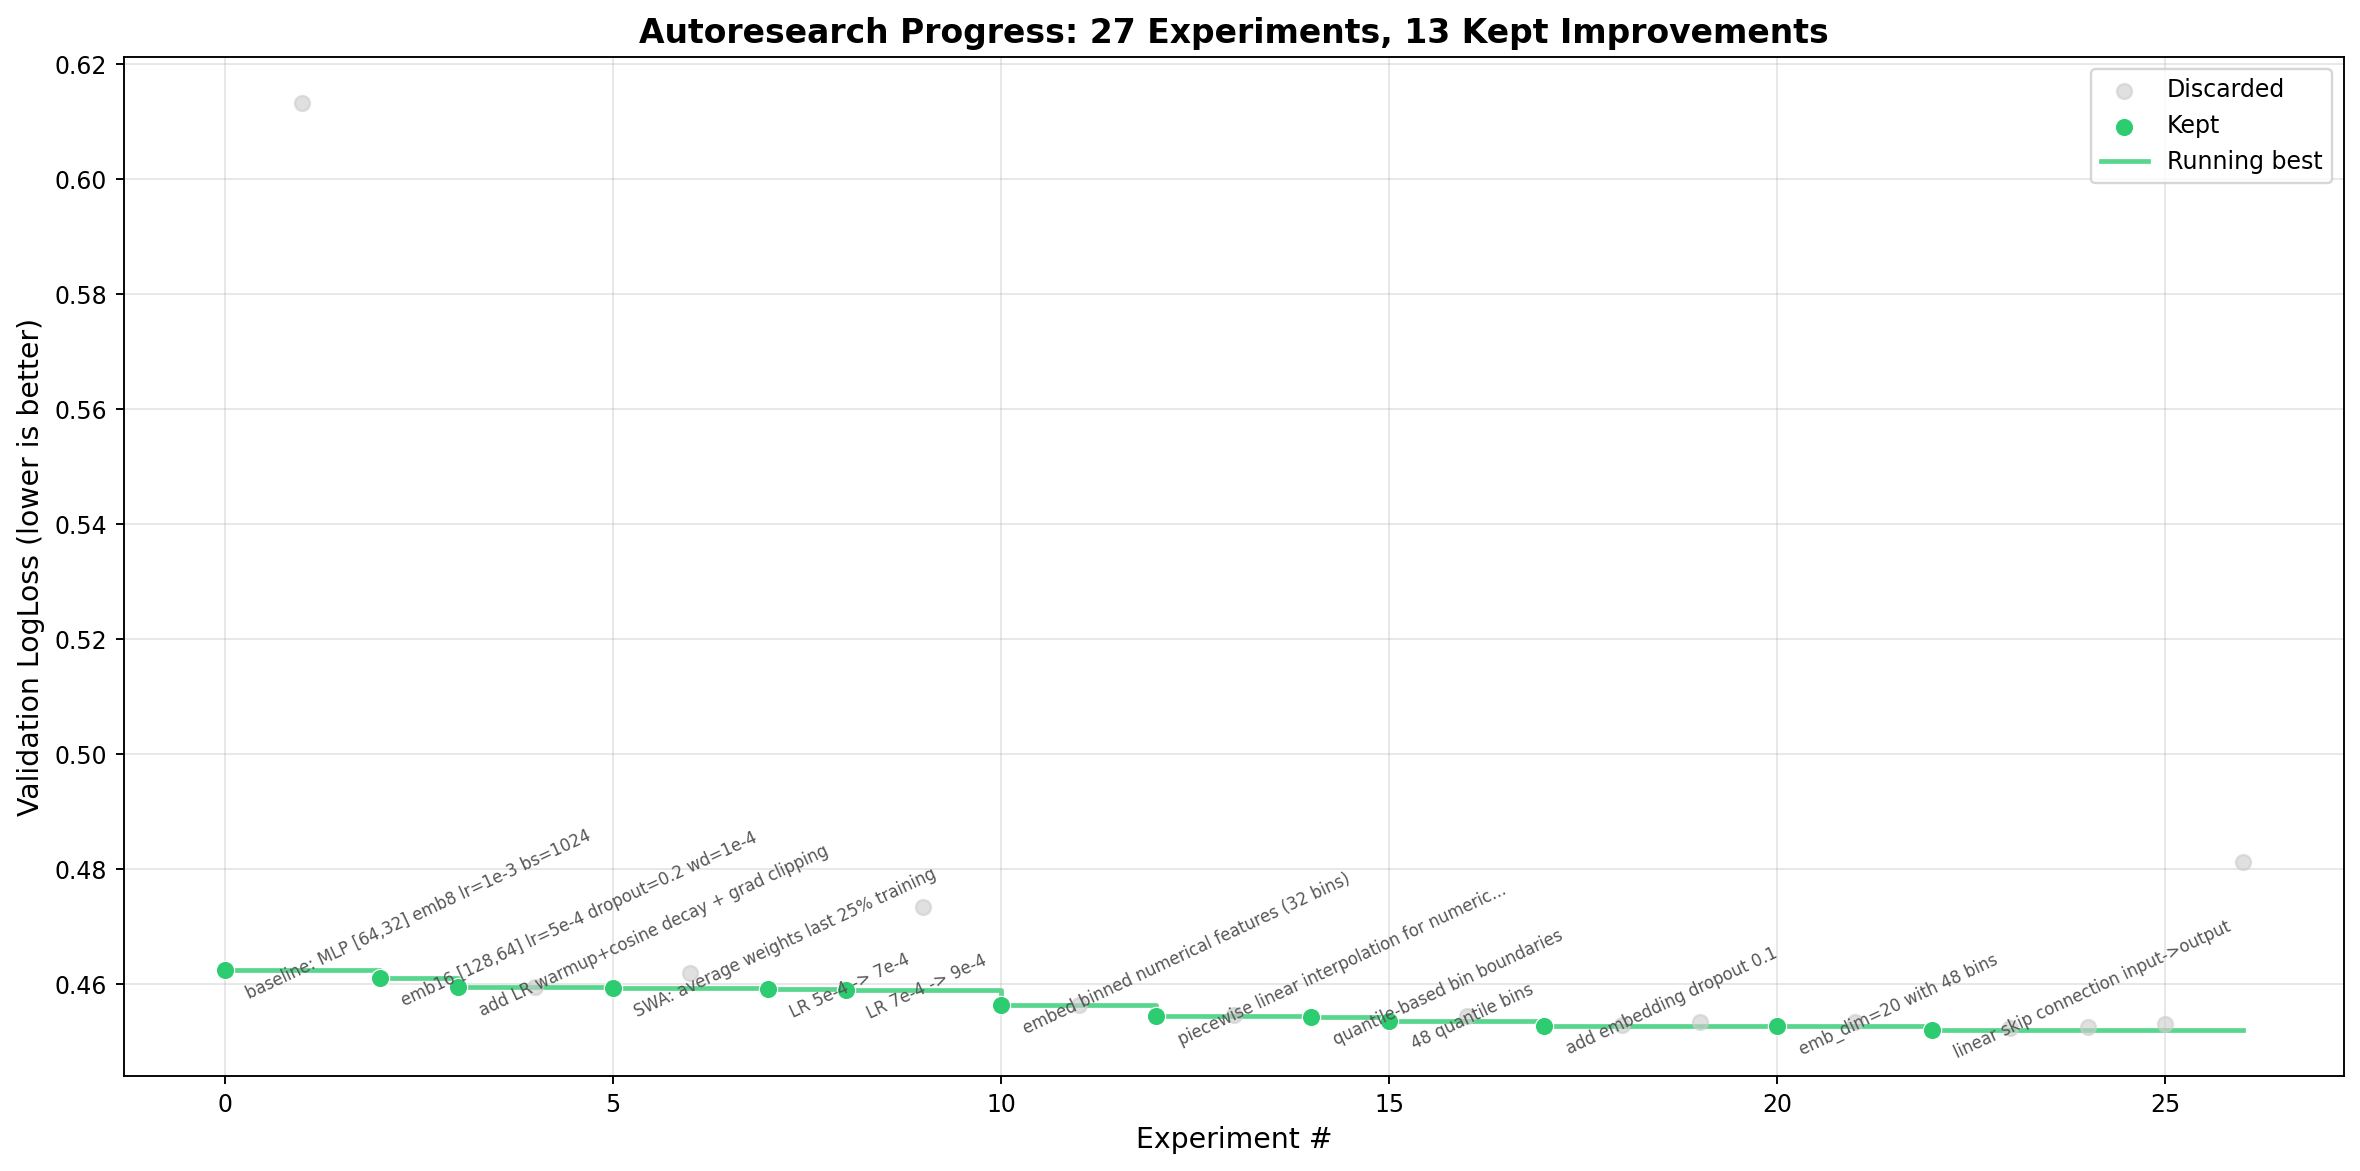
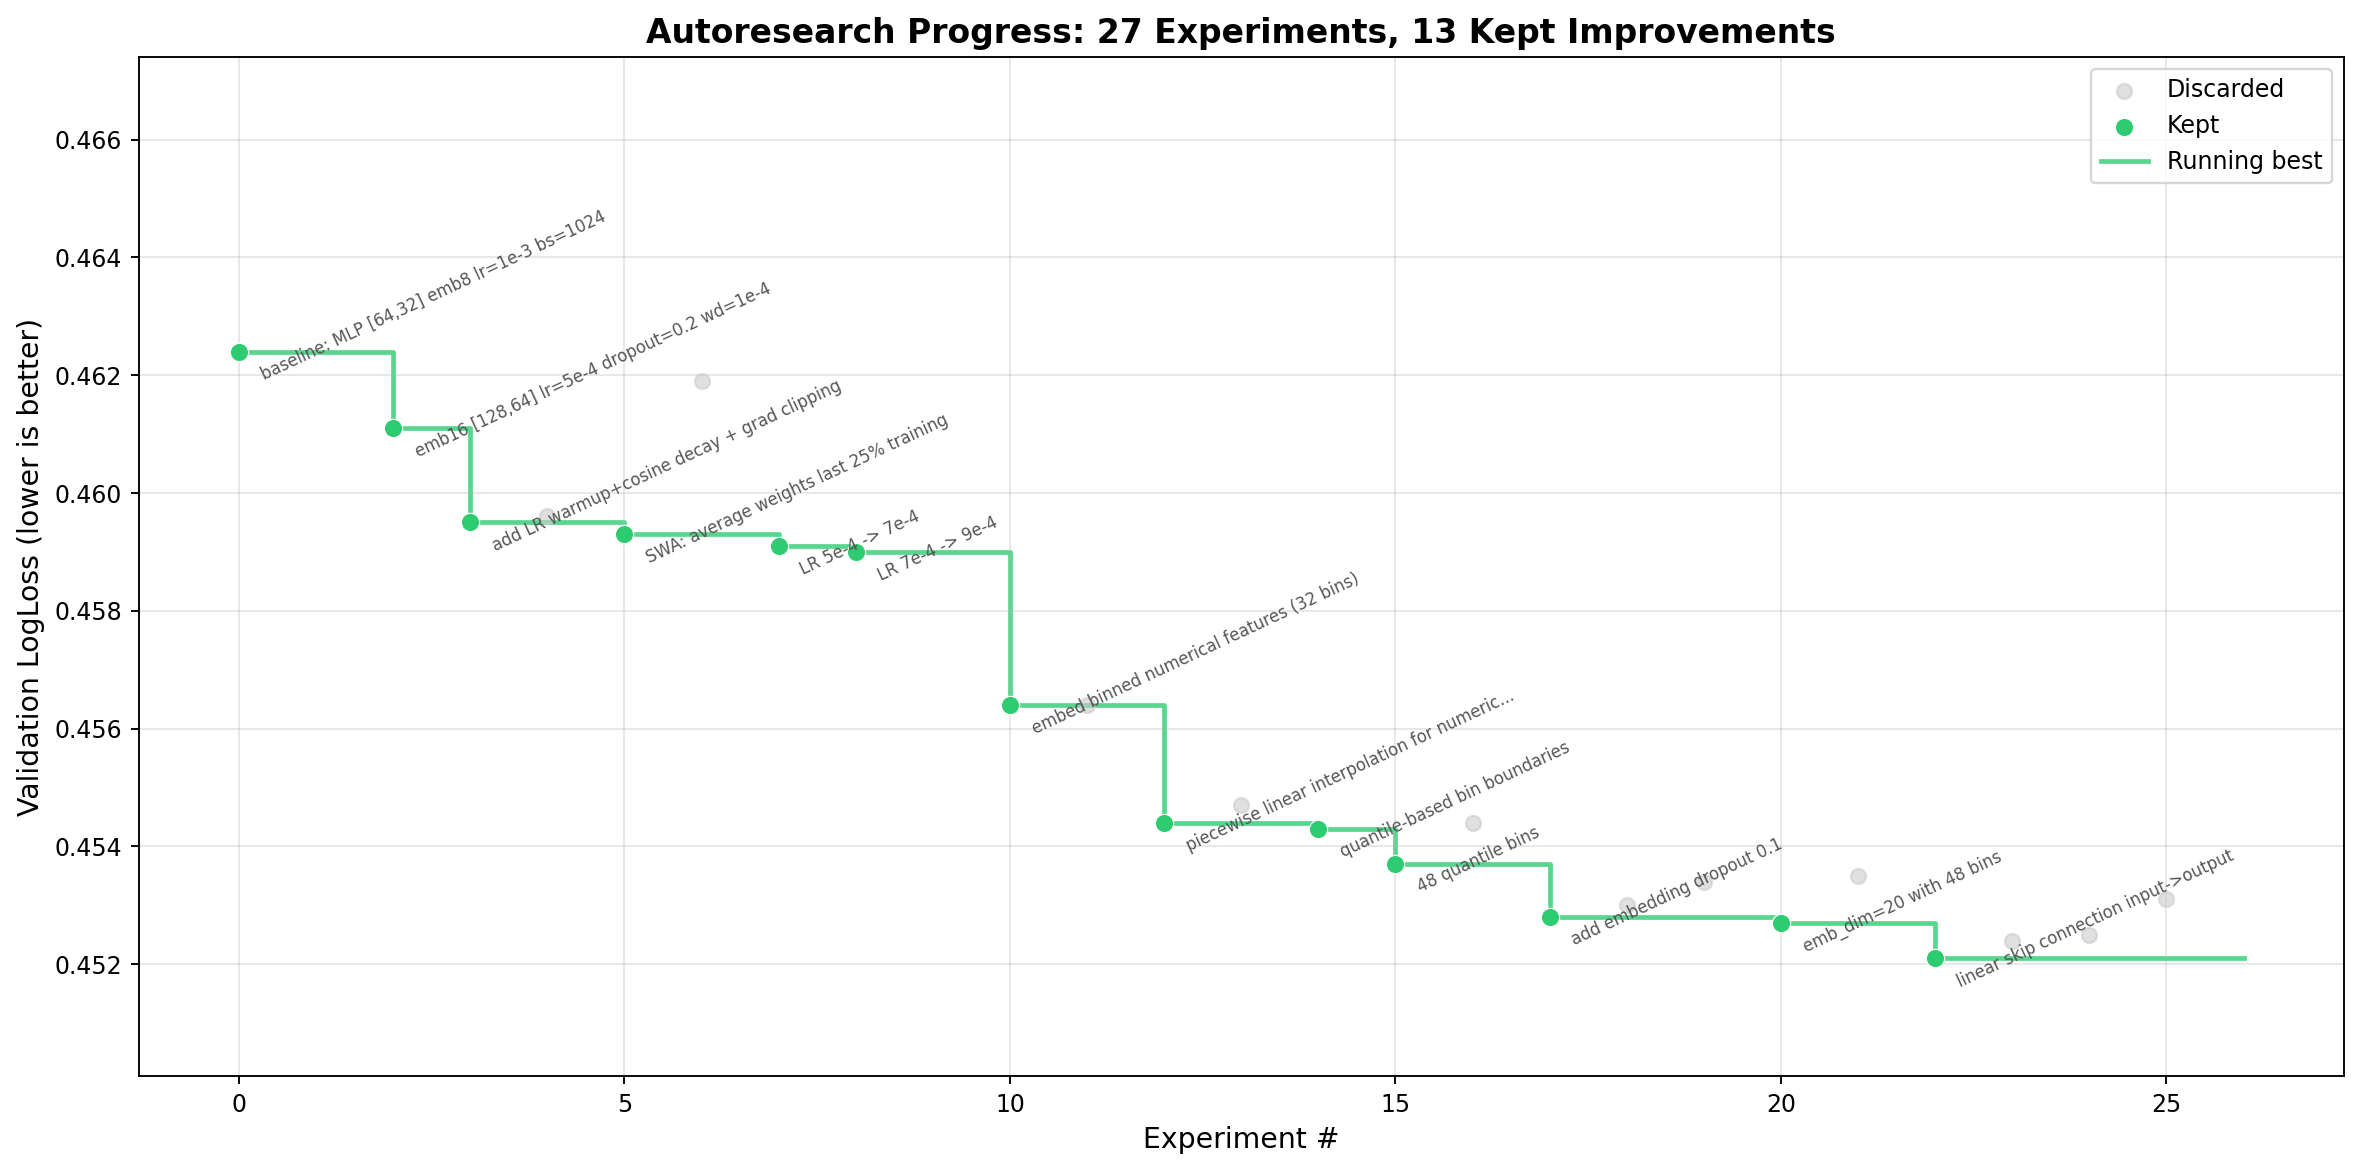
Clip y-axis to remove outliers from progress chart

diff --git a/ctr_prediction/make_progress.py b/ctr_prediction/make_progress.py
@@ -96,6 +96,13 @@ ax.set_ylabel('Validation LogLoss (lower is better)', fontsize=12)
 ax.legend(loc='upper right', fontsize=10)
 ax.grid(True, alpha=0.3)
 
+# Clip y-axis to remove outliers
+all_logloss = [e['val_logloss'] for e in experiments]
+kept_logloss = [e['val_logloss'] for e in kept]
+y_max = max(kept_logloss) + 0.005
+y_min = min(all_logloss) - 0.002
+ax.set_ylim(y_min, y_max)
+
 plt.tight_layout()
 plt.savefig('progress.png', dpi=170, bbox_inches='tight')
 print(f"Saved progress.png ({n_total} experiments, {n_kept} kept)")
